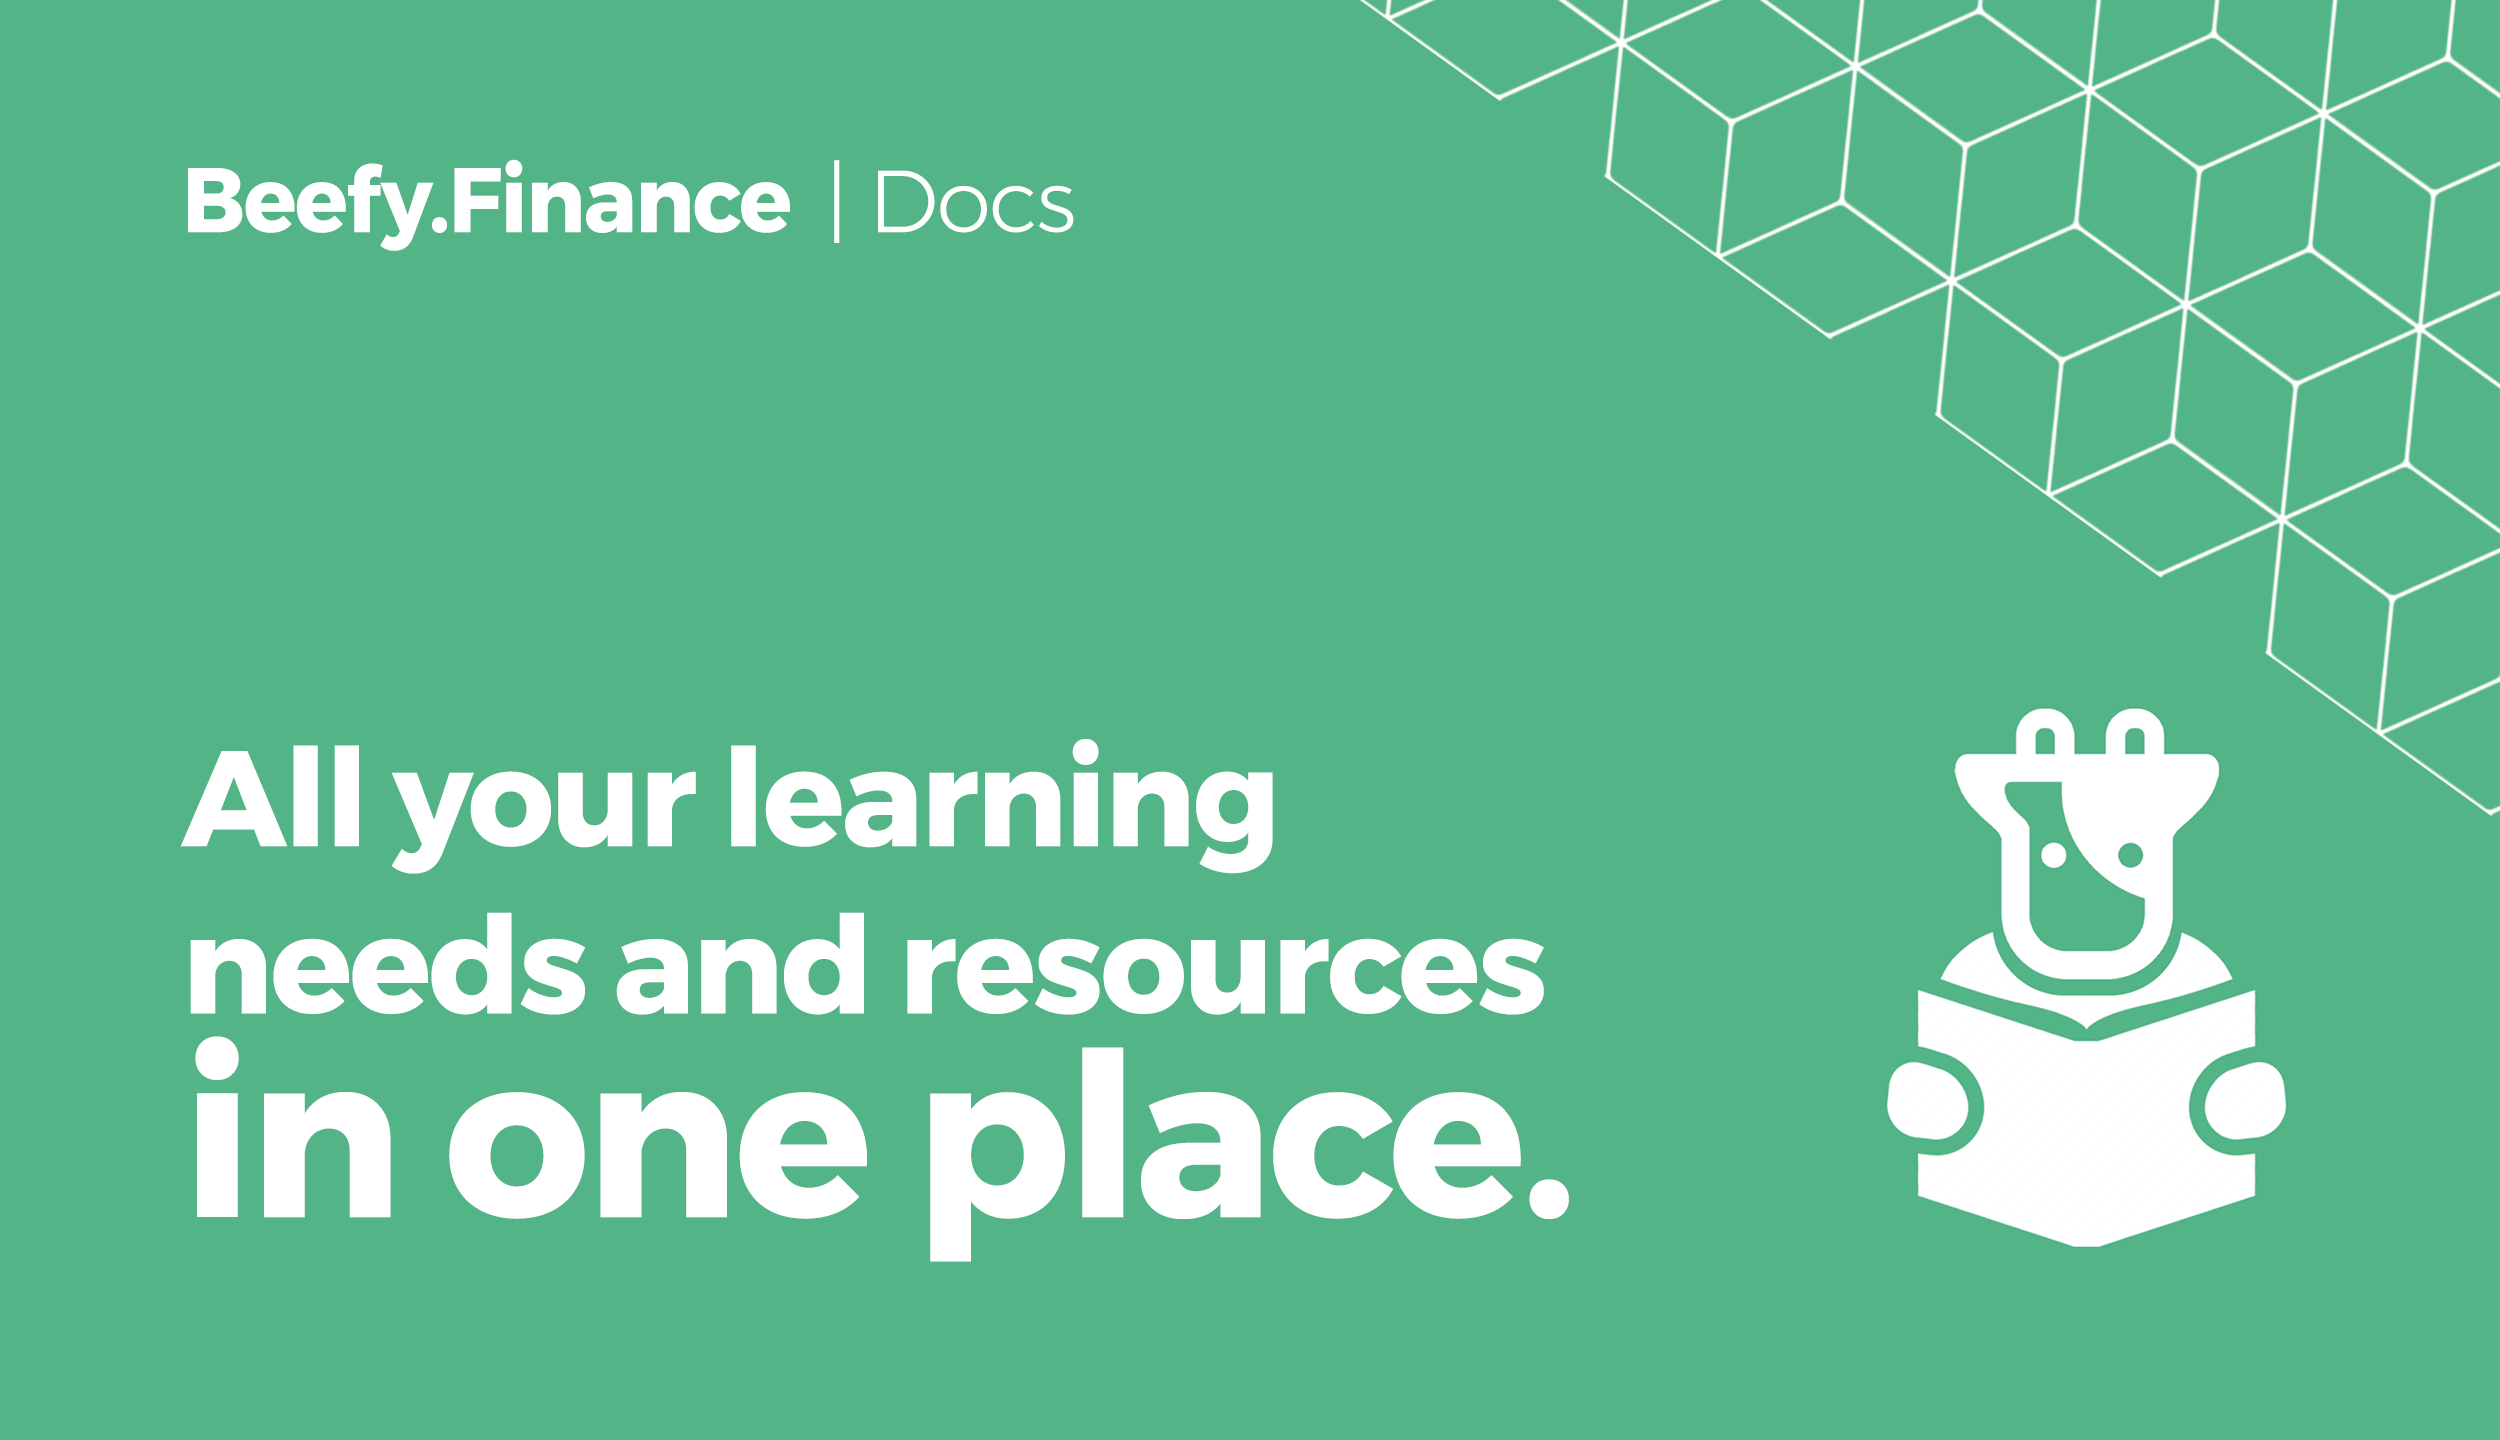
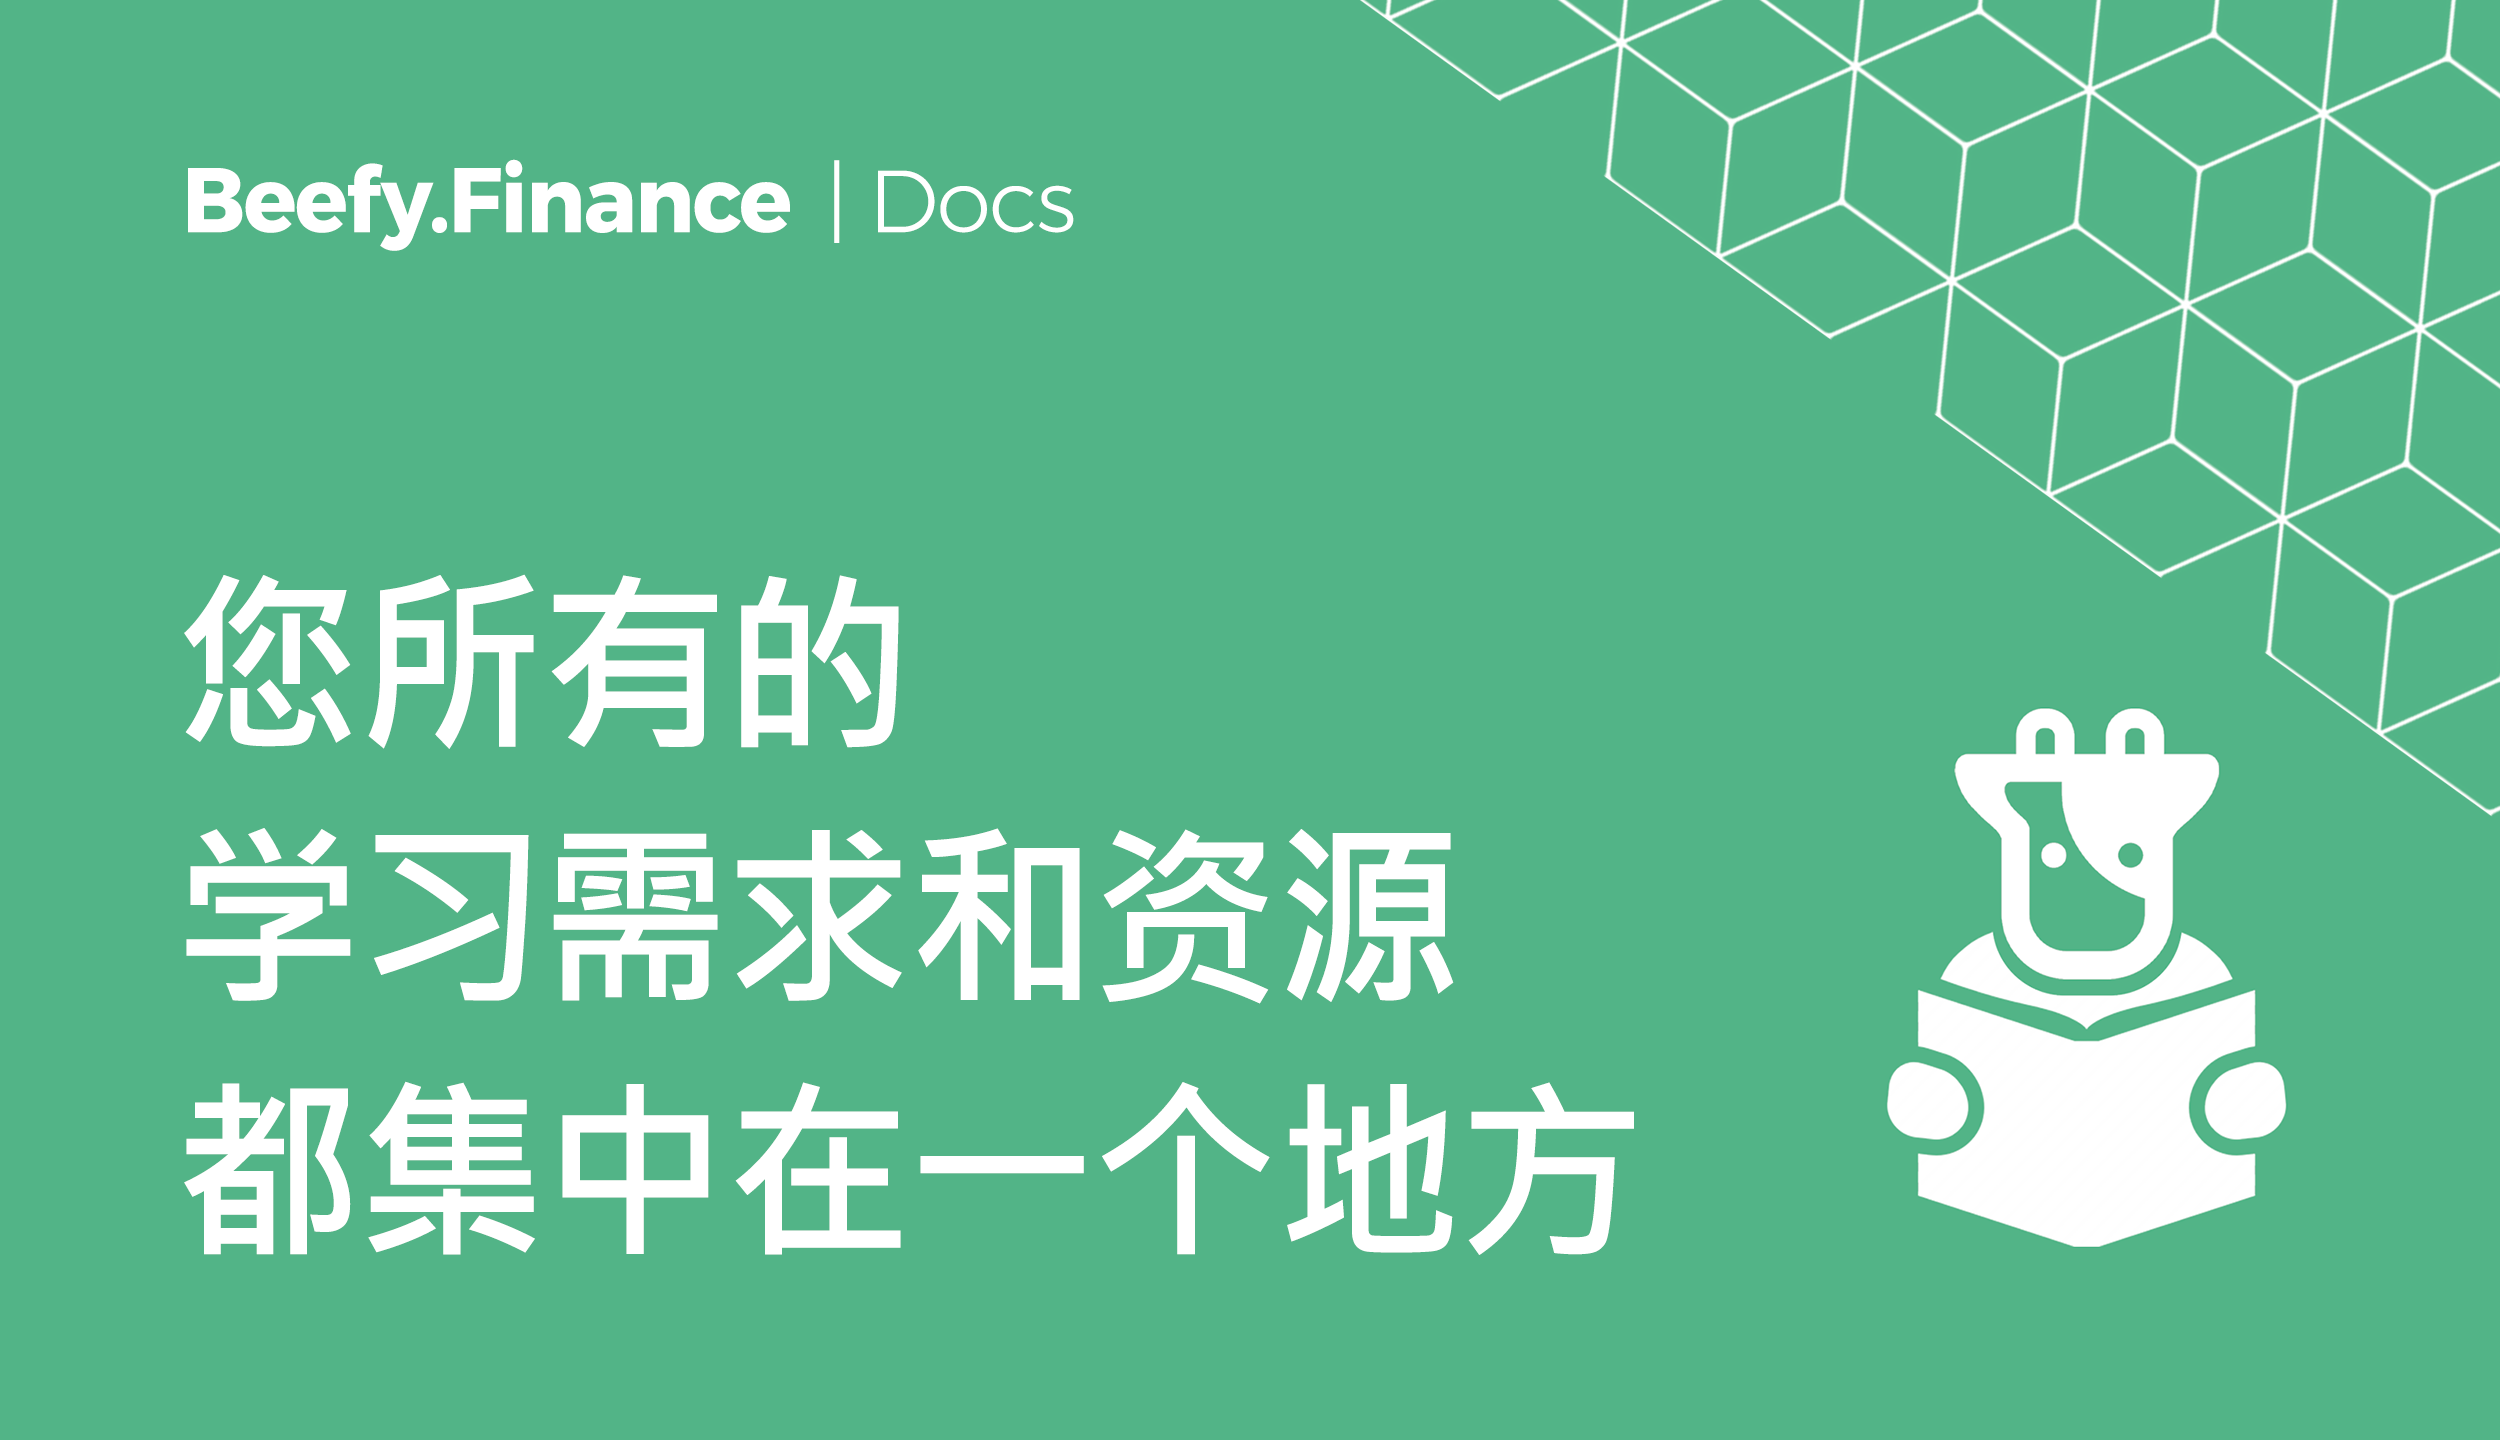
GitBook: [master] one page and 2 assets modified

Changed region(s): [[0.0624, 0.4062, 0.6552, 0.875]]

diff --git a/README.md b/README.md
@@ -1,6 +1,6 @@
 # Overview
 
-![](.gitbook/assets/docs-landing.png)
+![](.gitbook/assets/docs-landing_en.png)
 
 ## What is Beefy Finance?
 
